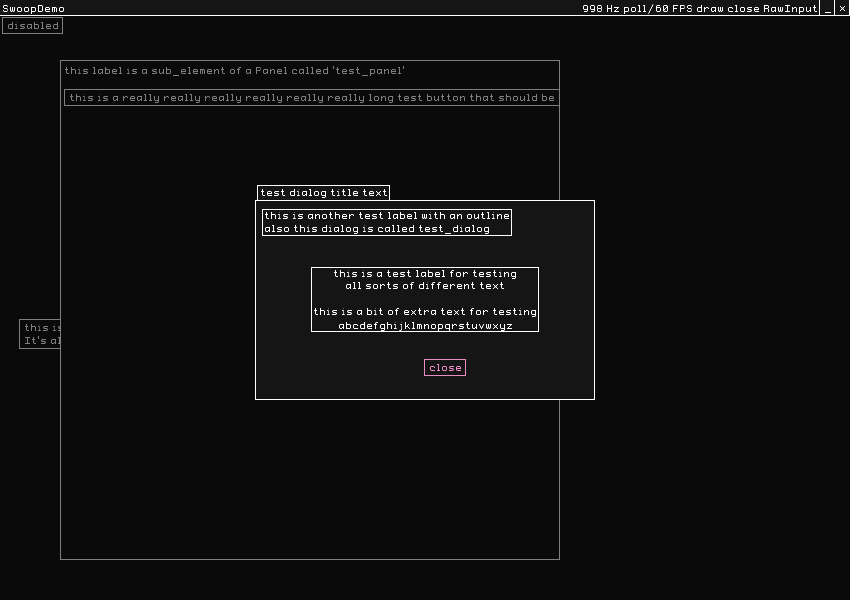
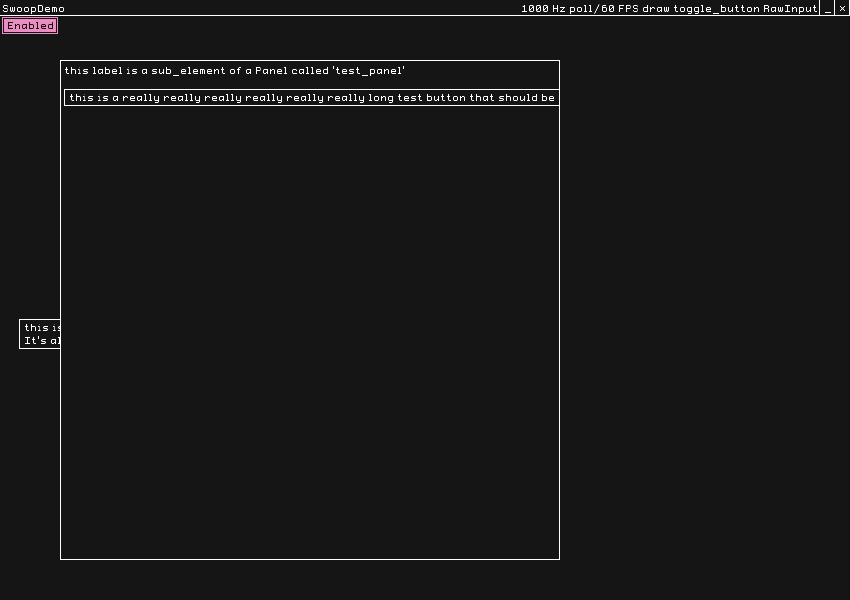
improved ToggleButton constructors and made it automatically switch displayed text

diff --git a/Swoop/UIElements/ToggleButton.cs b/Swoop/UIElements/ToggleButton.cs
@@ -8,26 +8,40 @@ using Microsoft.Xna.Framework;
 
 namespace SwoopLib.UIElements {
     public class ToggleButton : UIElement {
-        string _text = "button";
-        public string text => _text;
+        string _text_on = "Enabled";
+        string _text_off = "Disabled";
+
+        public string text => (toggled_on ? _text_on : _text_off);
+
         Vector2 margin = (Vector2.UnitY * 1.5f) + (Vector2.UnitX * 5);
 
         public bool toggled_on;
 
         public Action<ToggleButton, bool> toggled;
 
-        public ToggleButton(string name, string text, Vector2 position, Vector2 size) : base(name, position, size) {
-            _text = text;
+        public ToggleButton(string name, string on_text, string off_text, Vector2 position, Vector2 size) : base(name, position, size) {
+            _text_on = on_text;
+            _text_off = off_text;
         }
 
-        public ToggleButton(string name, string text, Vector2 position) : base(name, position, Vector2.Zero) {
-            _text = text;
+        public ToggleButton(string name, string on_text, string off_text, Vector2 position) : base(name, position, Vector2.Zero) {
+            _text_on = on_text;
+            _text_off = off_text;
             this.position = position;
             size = (margin * 2) + Drawing.measure_string_profont(text);
         }
 
-        public void change_text(string text) {
-            _text = text;
+        public ToggleButton(string name, Vector2 position) : base(name, position, Vector2.Zero) {
+            this.position = position;
+            size = (margin * 2) + Drawing.measure_string_profont(text);
+        }
+
+        public void change_text(string on_text, string off_text) {
+            _text_on = on_text;
+            _text_off = off_text;
+            size = (margin * 2) + Drawing.measure_string_profont(text);
+        }
+        public void change_text() {
             size = (margin * 2) + Drawing.measure_string_profont(text);
         }
 
@@ -39,8 +53,12 @@ namespace SwoopLib.UIElements {
             if (is_focused && Swoop.input_handler.just_pressed(Microsoft.Xna.Framework.Input.Keys.Enter)) 
                 interacted = true;
 
-            if (interacted) toggled_on = !toggled_on;
-            if (interacted && toggled != null) toggled(this, toggled_on); 
+            if (interacted) { 
+                toggled_on = !toggled_on;
+                change_text();
+                if (toggled != null) toggled(this, toggled_on);
+            }
+            
         }
 
         internal override void draw() {
@@ -49,7 +67,7 @@ namespace SwoopLib.UIElements {
             bool col_toggle = toggled_on;
 
             Drawing.fill_rect_outline(position, position + size, col_toggle ? Swoop.get_color(this) : Swoop.UIBackgroundColor, Swoop.get_color(this), 1f);
-            Drawing.text(_text, position + margin, col_toggle ? Swoop.UIBackgroundColor : Swoop.get_color(this));
+            Drawing.text(text, position + margin, col_toggle ? Swoop.UIBackgroundColor : Swoop.get_color(this));
 
             Drawing.rect(position + (Vector2.One * 1), (position + size) - (Vector2.One * 1), m ? Swoop.get_color(this) : Swoop.UIBackgroundColor, m ? 3f : 1f);
         }

diff --git a/SwoopDemo/SwoopGame.cs b/SwoopDemo/SwoopGame.cs
@@ -166,10 +166,7 @@ It's also gonna be a couple of lines long just to make sure everything works",
                 })
             );
 
-            UI.add_element(new ToggleButton("toggle_button", "disabled", (Vector2.UnitY * 18) + (Vector2.UnitX * 3)));            
-            ((ToggleButton)UI.elements["toggle_button"]).toggled = (ToggleButton tb, bool state) => {
-                tb.change_text((state ? "enabled" : "disabled"));
-            };
+            UI.add_element(new ToggleButton("toggle_button", (Vector2.UnitY * 18) + (Vector2.UnitX * 3)));    
 
         }
 
